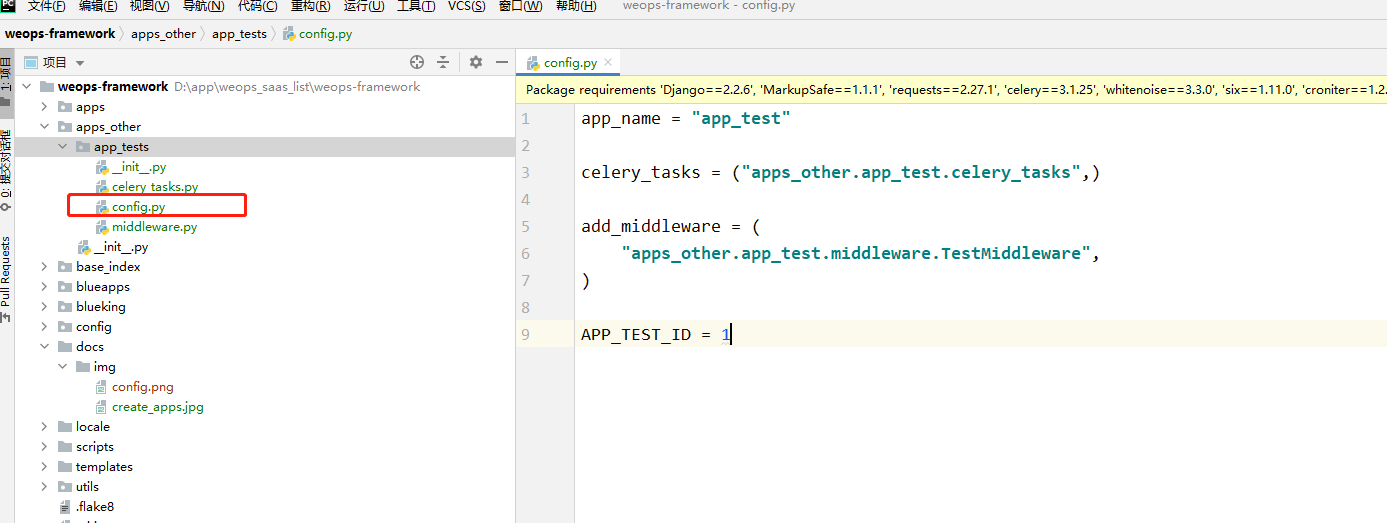
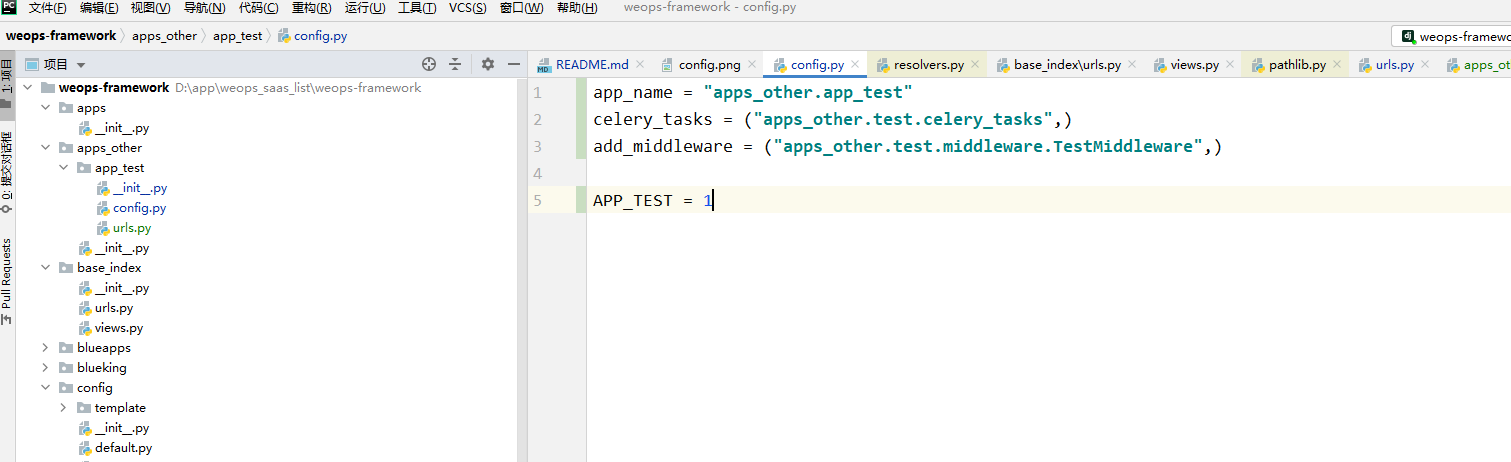
feature init

Changed region(s): [[0.0, 0.0, 1.0, 1.0], [0.403, 0.6061, 0.527, 0.6667]]

diff --git a/settings.py b/settings.py
@@ -45,7 +45,6 @@ INSTALLED_APPS = locals()["INSTALLED_APPS"]
 CELERY_IMPORTS = locals()["CELERY_IMPORTS"]
 MIDDLEWARE = locals()["MIDDLEWARE"]
 
-
 try:
     __module = __import__(f"home_application.config", globals(), locals(), ["*"])
 except ImportError:
@@ -59,21 +58,22 @@ else:
         elif _setting == "celery_tasks":
             CELERY_IMPORTS += getattr(__module, _setting)
 
-apps = os.listdir("apps") + os.listdir("apps_other")
-dir_list = [i for i in apps if not (i.startswith("__") or i.startswith("."))]
+apps = {"apps": os.listdir("apps"), "apps_other": os.listdir("apps_other")}
+for key, app_list in apps.items():
+    dir_list = [i for i in app_list if not (i.startswith("__") or i.startswith("."))]
 
-for i in dir_list:
-    try:
-        __module = __import__(f"apps.{i}.config", globals(), locals(), ["*"])
-    except ImportError:
-        pass
-    else:
-        for _setting in dir(__module):
-            if _setting == _setting.upper():
-                locals()[_setting] = getattr(__module, _setting)
-            elif _setting == "app_name":
-                INSTALLED_APPS += (getattr(__module, _setting),)
-            elif _setting == "celery_tasks":
-                CELERY_IMPORTS += getattr(__module, _setting)
-            elif _setting == "add_middleware":
-                MIDDLEWARE += getattr(__module, _setting)
+    for i in dir_list:
+        try:
+            __module = __import__(f"{key}.{i}.config", globals(), locals(), ["*"])
+        except ImportError:
+            pass
+        else:
+            for _setting in dir(__module):
+                if _setting == _setting.upper():
+                    locals()[_setting] = getattr(__module, _setting)
+                elif _setting == "app_name":
+                    INSTALLED_APPS += (getattr(__module, _setting),)
+                elif _setting == "celery_tasks":
+                    CELERY_IMPORTS += getattr(__module, _setting)
+                elif _setting == "add_middleware":
+                    MIDDLEWARE += getattr(__module, _setting)

diff --git a/urls.py b/urls.py
@@ -26,10 +26,15 @@ urlpatterns = [
     # 这里的 mako_application 可以改成你想要的名字
     url(r"^i18n/", include("django.conf.urls.i18n")),
 ]
-apps = os.listdir("apps") + os.listdir("apps_other")
-dir_list = [i for i in apps if not (i.startswith("__") or i.startswith(".")) and i not in ["system_mgmt"]]
-for i in dir_list:
-    urlpatterns.append(url(r"^{}/".format(i), include(f"apps.{i}.urls")))  # noqa
+apps = {
+    "apps": os.listdir("apps"),
+    "apps_other": os.listdir("apps_other")
+}
+for key, app_list in apps.items():
+    dir_list = [i for i in app_list if not (i.startswith("__") or i.startswith(".")) and i not in ["system_mgmt"]]
+    for i in dir_list:
+        urlpatterns.append(url(r"^{}/".format(i), include(f"{key}.{i}.urls")))  # noqa
+
 if settings.RUN_MODE == "DEVELOP":
     """
     开发时添加SWAGGER API DOC

diff --git a/README.md b/README.md
@@ -93,7 +93,7 @@ pre-commit install --hook-type commit-msg --allow-missing-config
 ![新建python包](./docs/img/create_apps.jpg)
 2、在对应包下新建`config.py`文件，需要包含以下内容：
 ```
-app_name = "app_test" # 应用名称，与新建的python包名保持一致即可
+app_name = "apps_other.app_test" # 应用名称，与新建的python包名保持一致并添加前缀apps_other.即可
 celery_tasks = ("apps_other.test.celery_tasks",) # celery后台任务文件路径，如果不需要，可以不需要这个变量
 add_middleware = ("apps_other.test.middleware.TestMiddleware",) # app自定义中间件，不需要可以不要这个变量
 # 这里可以将app需要的其它变量配置到这里，注意变量命名须以 APP_ 开头
